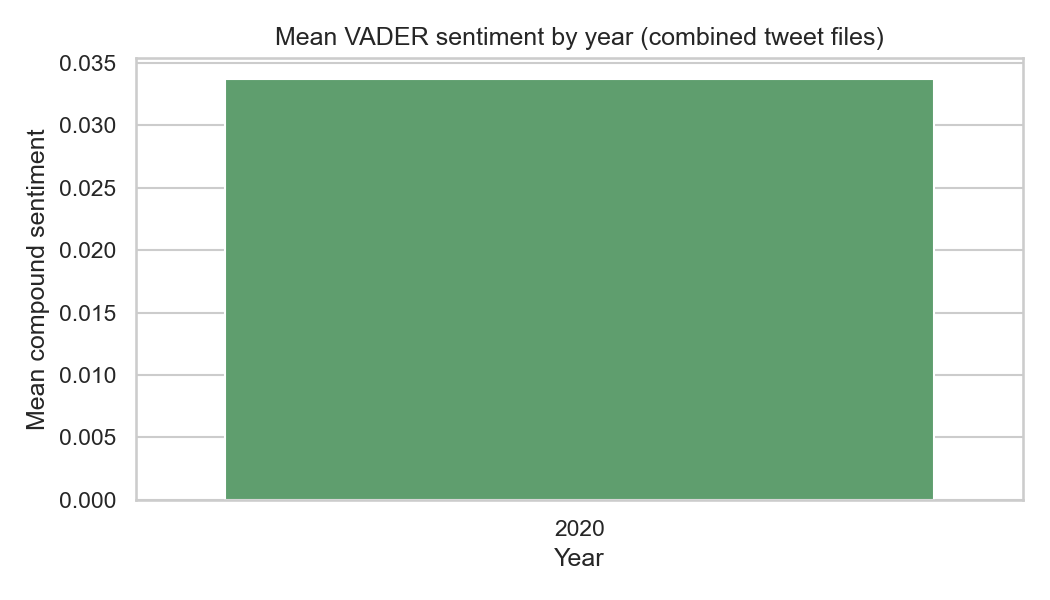
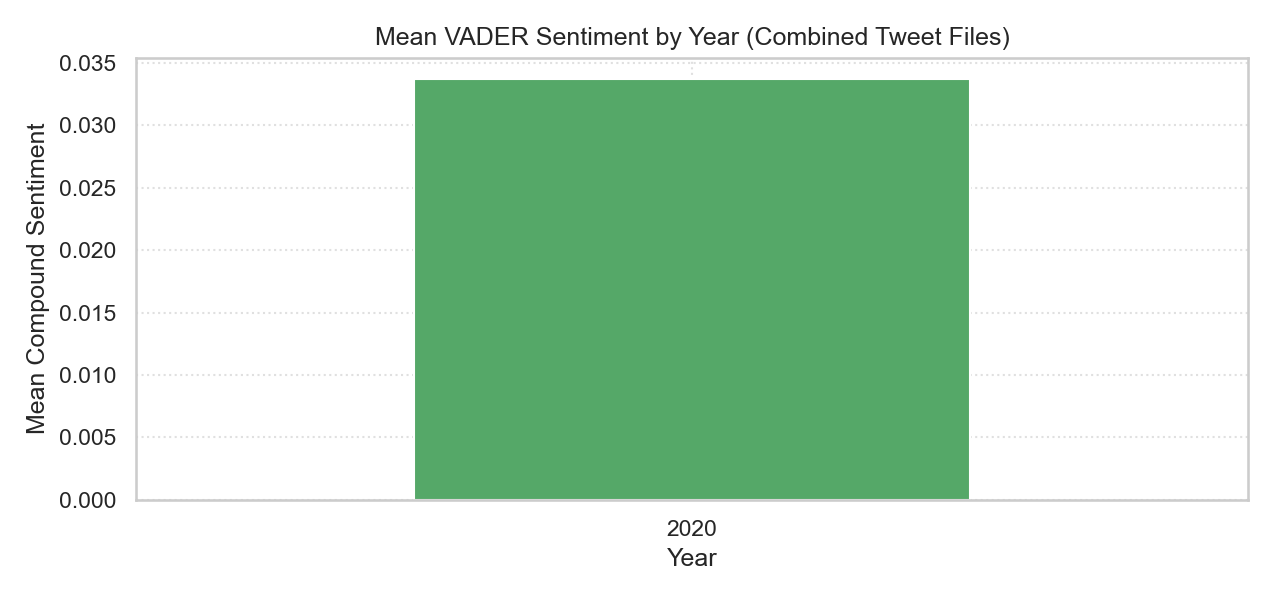
cleaned graphs

diff --git a/scripts/combined_analysis.py b/scripts/combined_analysis.py
@@ -13,6 +13,7 @@ appear only where both voter aggregates and tweets exist.
 from pathlib import Path
 
 import matplotlib.pyplot as plt
+import numpy as np
 import pandas as pd
 import seaborn as sns
 from sklearn.cluster import KMeans
@@ -27,6 +28,18 @@ BIDEN_PATH = PROJECT_ROOT / "data/processed/social_media/biden_preprocessed.csv"
 TRUMP_PATH = PROJECT_ROOT / "data/processed/social_media/trump_preprocessed.csv"
 OUTPUT_DATA_DIR = PROJECT_ROOT / "data/processed/analysis"
 OUTPUT_FIG_DIR = PROJECT_ROOT / "reports/figures/combined_analysis"
+
+
+def _padded_xlim_years(years) -> tuple[float, float]:
+    """Widen x-axis so end years are not flush against the plot edge."""
+    arr = np.unique(np.asarray(years, dtype=float))
+    arr = arr[~np.isnan(arr)]
+    if len(arr) == 0:
+        return 0.0, 1.0
+    lo, hi = float(arr.min()), float(arr.max())
+    span = hi - lo if hi > lo else 1.0
+    pad = max(span * 0.14, 0.65)
+    return lo - pad, hi + pad
 
 
 def build_voter_state_year() -> pd.DataFrame:
@@ -79,24 +92,83 @@ def save_descriptive_plots(
 ) -> None:
     sns.set_theme(style="whitegrid")
 
-    yearly_voter = voter_state_year.groupby("year", as_index=False)["registration_rate"].mean()
+    yearly_voter = (
+        voter_state_year.groupby("year", as_index=False)["registration_rate"]
+        .mean()
+        .sort_values("year")
+    )
+    yearly_merged_reg = (
+        merged.groupby("year", as_index=False)["registration_rate"]
+        .mean()
+        .sort_values("year")
+    )
 
-    plt.figure(figsize=(7, 4))
-    sns.barplot(data=yearly_voter, x="year", y="registration_rate", color="#4C72B0")
-    plt.title("Mean registration rate by year (CPS subset, all states)")
-    plt.ylabel("Registration rate")
+    plt.figure(figsize=(8.5, 4))
+    plt.plot(
+        yearly_voter["year"],
+        yearly_voter["registration_rate"],
+        color="#4C72B0",
+        linewidth=2,
+        marker="o",
+        markersize=9,
+        markeredgecolor="white",
+        markeredgewidth=1,
+        label="All CPS state-years",
+    )
+    if not yearly_merged_reg.empty:
+        plt.plot(
+            yearly_merged_reg["year"],
+            yearly_merged_reg["registration_rate"],
+            color="#e74c3c",
+            linewidth=2,
+            marker="s",
+            markersize=8,
+            markeredgecolor="white",
+            markeredgewidth=1,
+            label="Merged with tweets (inner join)",
+        )
+    reg_years = (
+        pd.concat([yearly_voter["year"], yearly_merged_reg["year"]], ignore_index=True)
+        if not yearly_merged_reg.empty
+        else yearly_voter["year"]
+    )
+    x_lo, x_hi = _padded_xlim_years(reg_years)
+    plt.xlim(x_lo, x_hi)
+    year_ticks = sorted(pd.unique(reg_years.astype(int)))
+    plt.xticks(year_ticks)
+    plt.title("Mean Registration Rate by Year")
+    plt.ylabel("Registration Rate")
     plt.xlabel("Year")
+    plt.legend(loc="best", framealpha=0.95)
+    plt.grid(True, linestyle=":", alpha=0.6)
     plt.tight_layout()
     plt.savefig(OUTPUT_FIG_DIR / "registration_rate_by_year.png", dpi=150)
     plt.close()
 
-    yearly_social = social_state_year.groupby("year", as_index=False)["mean_sentiment"].mean()
+    yearly_social = (
+        social_state_year.groupby("year", as_index=False)["mean_sentiment"]
+        .mean()
+        .sort_values("year")
+    )
 
-    plt.figure(figsize=(7, 4))
-    sns.barplot(data=yearly_social, x="year", y="mean_sentiment", color="#55A868")
-    plt.title("Mean VADER sentiment by year (combined tweet files)")
-    plt.ylabel("Mean compound sentiment")
+    plt.figure(figsize=(8.5, 4))
+    sy = yearly_social["year"].astype(int).to_numpy()
+    sm = yearly_social["mean_sentiment"].to_numpy(dtype=float)
+    plt.bar(
+        sy,
+        sm,
+        width=0.65,
+        color="#55A868",
+        edgecolor="white",
+        linewidth=1,
+    )
+    sx_lo, sx_hi = _padded_xlim_years(yearly_social["year"])
+    plt.xlim(sx_lo, sx_hi)
+    plt.xticks(sorted(yearly_social["year"].astype(int).unique()))
+    plt.title("Mean VADER Sentiment by Year (Combined Tweet Files)")
+    plt.ylabel("Mean Compound Sentiment")
     plt.xlabel("Year")
+    plt.grid(True, linestyle=":", alpha=0.6)
     plt.tight_layout()
     plt.savefig(OUTPUT_FIG_DIR / "mean_sentiment_by_year.png", dpi=150)
     plt.close()
@@ -109,9 +181,9 @@ def save_descriptive_plots(
         scatter_kws={"alpha": 0.7},
         line_kws={"color": "red"},
     )
-    plt.title("Mean sentiment vs registration (merged state-year)")
-    plt.xlabel("Mean compound sentiment")
-    plt.ylabel("Registration rate")
+    plt.title("Mean Sentiment vs Registration (Merged State-year)")
+    plt.xlabel("Mean Compound Sentiment")
+    plt.ylabel("Registration Rate")
     plt.tight_layout()
     plt.savefig(OUTPUT_FIG_DIR / "mean_sentiment_vs_registration_rate.png", dpi=150)
     plt.close()
@@ -141,18 +213,39 @@ def add_social_kmeans_clusters(
 
 
 def save_cluster_plots(labeled: pd.DataFrame) -> None:
-    """Cluster size bar chart and mean registration rate by cluster."""
+    """Cluster sizes and mean registration by cluster: line+markers if 2+ clusters, else bar."""
     sns.set_theme(style="whitegrid")
     valid = labeled.dropna(subset=["social_cluster"]).copy()
     if valid.empty:
         return
 
     counts = valid["social_cluster"].value_counts().sort_index()
+    c_ids = counts.index.astype(int).to_numpy()
+    c_vals = counts.values.astype(float)
+
     plt.figure(figsize=(7, 4))
-    sns.barplot(x=counts.index.astype(int), y=counts.values, color="#9b59b6")
+    if len(c_ids) == 1:
+        plt.bar([int(c_ids[0])], [c_vals[0]], width=0.45, color="#9b59b6", edgecolor="white", linewidth=1)
+        plt.xticks([int(c_ids[0])])
+    else:
+        plt.plot(
+            c_ids,
+            c_vals,
+            color="#9b59b6",
+            linewidth=2,
+            marker="o",
+            markersize=9,
+            markeredgecolor="white",
+            markeredgewidth=1,
+        )
+        plt.xticks(c_ids)
+        x_lo, x_hi = float(c_ids.min()), float(c_ids.max())
+        span = max(x_hi - x_lo, 1.0)
+        plt.margins(x=max(0.08 * span, 0.25))
     plt.xlabel("Cluster ID")
     plt.ylabel("Number of state-year rows")
     plt.title("K-means clusters (features: tweet volume, mean sentiment)")
+    plt.grid(True, linestyle=":", alpha=0.6)
     plt.tight_layout()
     plt.savefig(OUTPUT_FIG_DIR / "cluster_sizes.png", dpi=150)
     plt.close()
@@ -160,17 +253,41 @@ def save_cluster_plots(labeled: pd.DataFrame) -> None:
     by_cluster = (
         valid.groupby("social_cluster", as_index=False)
         .agg(mean_registration=("registration_rate", "mean"))
+        .sort_values("social_cluster")
     )
+    bc_ids = by_cluster["social_cluster"].astype(int).to_numpy()
+    bc_vals = by_cluster["mean_registration"].to_numpy(dtype=float)
+
     plt.figure(figsize=(7, 4))
-    sns.barplot(
-        data=by_cluster,
-        x="social_cluster",
-        y="mean_registration",
-        color="#34495e",
-    )
+    if len(bc_ids) == 1:
+        plt.bar(
+            [int(bc_ids[0])],
+            [bc_vals[0]],
+            width=0.45,
+            color="#34495e",
+            edgecolor="white",
+            linewidth=1,
+        )
+        plt.xticks([int(bc_ids[0])])
+    else:
+        plt.plot(
+            bc_ids,
+            bc_vals,
+            color="#34495e",
+            linewidth=2,
+            marker="o",
+            markersize=9,
+            markeredgecolor="white",
+            markeredgewidth=1,
+        )
+        plt.xticks(bc_ids)
+        x_lo, x_hi = float(bc_ids.min()), float(bc_ids.max())
+        span = max(x_hi - x_lo, 1.0)
+        plt.margins(x=max(0.08 * span, 0.25))
     plt.xlabel("Cluster ID")
-    plt.ylabel("Mean registration rate")
-    plt.title("Mean CPS registration rate by social-media cluster")
+    plt.ylabel("Mean Registration Rate")
+    plt.title("Mean CPS Registration Rate by Social Media Cluster")
+    plt.grid(True, linestyle=":", alpha=0.6)
     plt.tight_layout()
     plt.savefig(OUTPUT_FIG_DIR / "registration_rate_by_cluster.png", dpi=150)
     plt.close()

diff --git a/README.md b/README.md
@@ -75,8 +75,8 @@ Supporting intermediate outputs:
 
 ## 2. Descriptive figures (`reports/figures/combined_analysis/`)
 
-- `registration_rate_by_year.png`: average voter registration across CPS survey years (full voter dataset)
-- `mean_sentiment_by_year.png`: average tweet sentiment over time
+- `registration_rate_by_year.png`: two line series with markers — (1) mean registration across all CPS state-years by survey year, (2) mean registration for **merged** state-years only (inner join with tweets). X-axis uses extra margin so years are not flush to the edges.
+- `mean_sentiment_by_year.png`: line chart with point markers — mean tweet sentiment by calendar year; wider figure and padded x-axis like the registration time plot.
 - `mean_sentiment_vs_registration_rate.png`: relationship between sentiment and registration at the state-year level
 
 There is no turnout visualization since turnout variables were removed.
